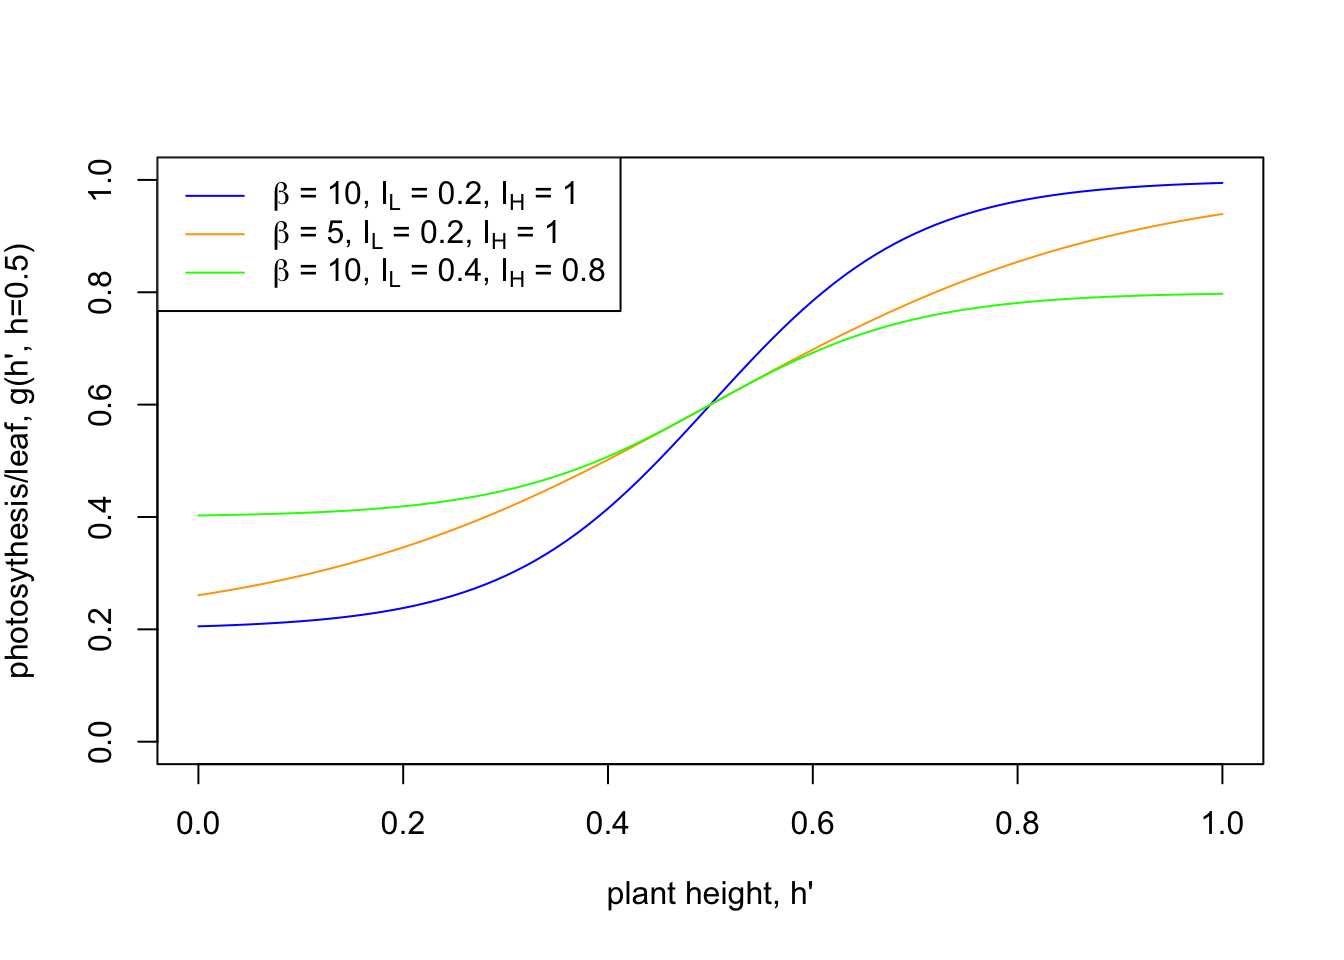
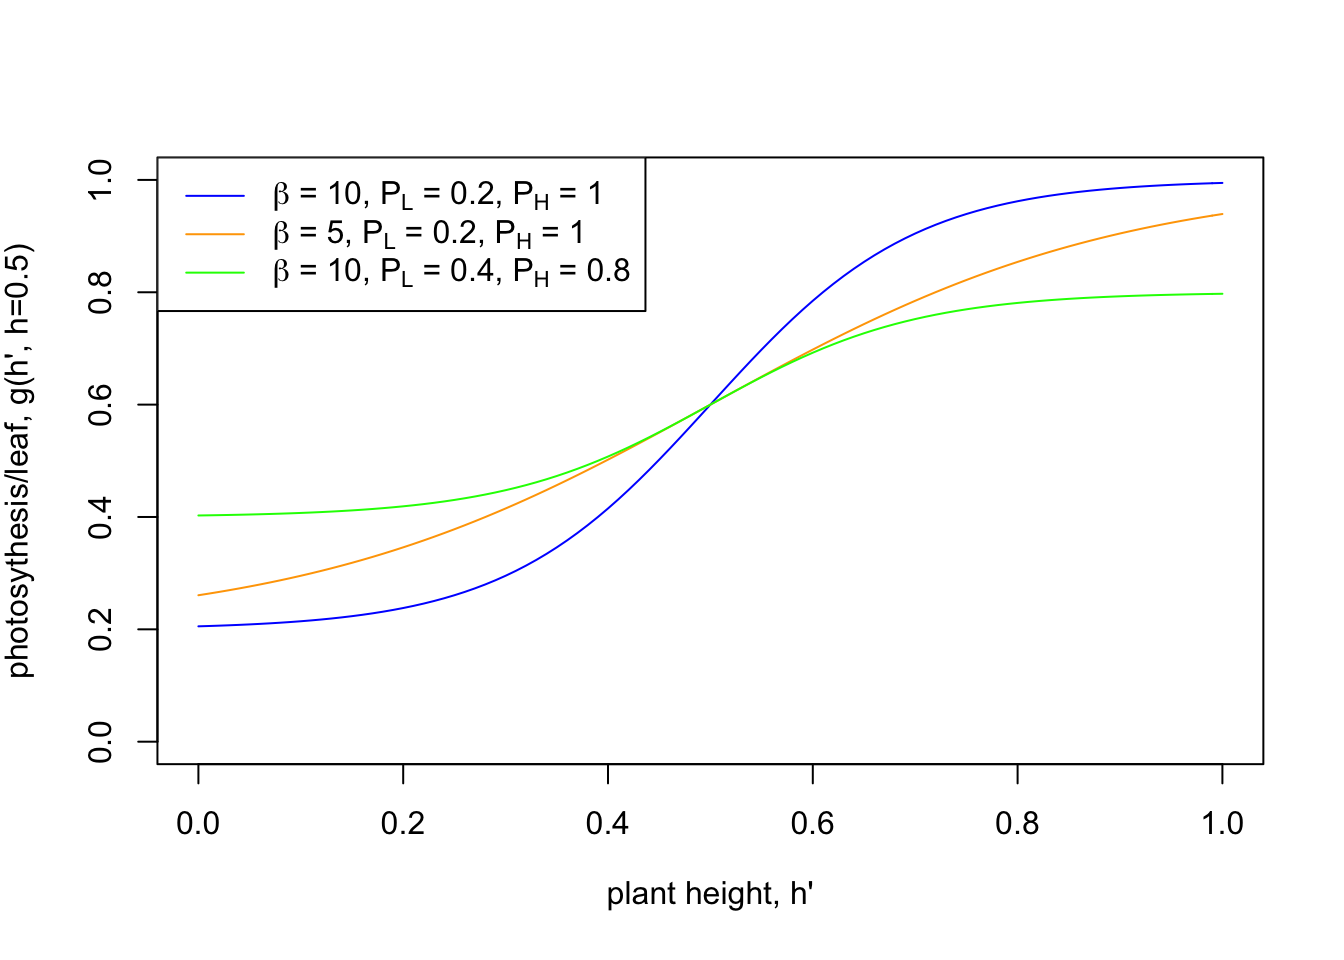
corrections

Changed region(s): [[0.2812, 0.1875, 0.4688, 0.3125]]

diff --git a/docs/GamesPlantsPlay.html b/docs/GamesPlantsPlay.html
@@ -415,9 +415,9 @@ g(h&#39;, h)=P_L+\frac{P_H-P_L}{1+\exp\left(-\beta(h&#39; - h)\right)}.
 <a class="sourceLine" id="cb3-20" data-line-number="20">beta &lt;-<span class="st"> </span><span class="dv">10</span></a>
 <a class="sourceLine" id="cb3-21" data-line-number="21"><span class="kw">curve</span>(<span class="kw">g</span>(x, <span class="dt">h.r =</span> <span class="fl">0.5</span>), <span class="dt">from =</span> <span class="dv">0</span>, <span class="dt">to =</span> <span class="dv">1</span>, <span class="dt">add =</span> <span class="ot">TRUE</span>, <span class="dt">col =</span> <span class="st">&quot;green&quot;</span>)</a>
 <a class="sourceLine" id="cb3-22" data-line-number="22"><span class="kw">legend</span>(<span class="st">&quot;topleft&quot;</span>, <span class="dt">lty =</span><span class="dv">1</span>, <span class="dt">col =</span> <span class="kw">c</span>(<span class="st">&quot;blue&quot;</span>, <span class="st">&quot;orange&quot;</span>, <span class="st">&quot;green&quot;</span>),</a>
-<a class="sourceLine" id="cb3-23" data-line-number="23">       <span class="dt">legend =</span> <span class="kw">c</span>(<span class="kw">expression</span>(<span class="kw">paste</span>(beta, <span class="st">&quot; = 10, &quot;</span>, I[L], <span class="st">&quot; = 0.2, &quot;</span>, I[H], <span class="st">&quot; = 1&quot;</span>)),</a>
-<a class="sourceLine" id="cb3-24" data-line-number="24">                  <span class="kw">expression</span>(<span class="kw">paste</span>(beta, <span class="st">&quot; = 5, &quot;</span>, I[L], <span class="st">&quot; = 0.2, &quot;</span>, I[H], <span class="st">&quot; = 1&quot;</span>)),</a>
-<a class="sourceLine" id="cb3-25" data-line-number="25">                  <span class="kw">expression</span>(<span class="kw">paste</span>(beta, <span class="st">&quot; = 10, &quot;</span>, I[L], <span class="st">&quot; = 0.4, &quot;</span>, I[H], <span class="st">&quot; = 0.8&quot;</span>))))</a></code></pre></div>
+<a class="sourceLine" id="cb3-23" data-line-number="23">       <span class="dt">legend =</span> <span class="kw">c</span>(<span class="kw">expression</span>(<span class="kw">paste</span>(beta, <span class="st">&quot; = 10, &quot;</span>, P[L], <span class="st">&quot; = 0.2, &quot;</span>, P[H], <span class="st">&quot; = 1&quot;</span>)),</a>
+<a class="sourceLine" id="cb3-24" data-line-number="24">                  <span class="kw">expression</span>(<span class="kw">paste</span>(beta, <span class="st">&quot; = 5, &quot;</span>, P[L], <span class="st">&quot; = 0.2, &quot;</span>, P[H], <span class="st">&quot; = 1&quot;</span>)),</a>
+<a class="sourceLine" id="cb3-25" data-line-number="25">                  <span class="kw">expression</span>(<span class="kw">paste</span>(beta, <span class="st">&quot; = 10, &quot;</span>, P[L], <span class="st">&quot; = 0.4, &quot;</span>, P[H], <span class="st">&quot; = 0.8&quot;</span>))))</a></code></pre></div>
 <p><img src="GamesPlantsPlay_files/figure-html/unnamed-chunk-2-1.png" width="672" /></p>
 <p>The shape of the function is S-shaped as a function of the height <span class="math inline">\(h&#39;\)</span> of the focal plant. As <span class="math inline">\(h&#39;\)</span> approaches 0, the value of <span class="math inline">\(g(h&#39;)\)</span> approaches the value of <span class="math inline">\(P_L\)</span>. Thus, <span class="math inline">\(P_L\)</span> can be interpreted as the amount of photosynthesis of a plant without stem that is maximally shaded by the other plant with height <span class="math inline">\(h = 0.5\)</span>. On the other end, as <span class="math inline">\(h&#39;\)</span> approaches 1, the value of <span class="math inline">\(g(h&#39;)\)</span> approaches the value of <span class="math inline">\(P_H\)</span>. Thus, <span class="math inline">\(P_H\)</span> can be interpreted as the amount of photosynthesis of a plant with a stem of maximum length that experience no shading from the other plant. If both plants are equally high, <span class="math inline">\(h&#39; = 0.5 = h\)</span>, then <span class="math inline">\(g(h)\)</span> is eaxtly halfway between <span class="math inline">\(P_L\)</span> and <span class="math inline">\(P_H\)</span>.</p>
 <p>Now we have everything in place to look at the payoff for a plant with height <span class="math inline">\(h&#39;\)</span> when competing against a plants with height <span class="math inline">\(h\)</span>, denoted <span class="math inline">\(w(h&#39;, h)\)</span>. The payoff for a plant with height <span class="math inline">\(h\)</span> competing against plants with height <span class="math inline">\(h&#39;\)</span> is denoted by reversing the order of the arguments in the payoff function <span class="math inline">\(w\)</span>.</p>
@@ -427,14 +427,10 @@ w(h&#39;, h) &amp; = f(h&#39;)g(h&#39;, h)\\
 w(h, h&#39;) &amp; = f(h)g(h, h&#39;)
 \end{align}
 \]</span></p>
-<p>Next we reproduce the payoff matrix shown in Table 6.1 in Kokko (2007). First, we define the functions for these payoffs.</p>
-<div class="sourceCode" id="cb4"><pre class="sourceCode r"><code class="sourceCode r"><a class="sourceLine" id="cb4-1" data-line-number="1">w.h.m.h.r &lt;-<span class="st"> </span><span class="cf">function</span>(h.m, h.r) { <span class="co"># payoff for h&#39;</span></a>
+<p>Next we reproduce the payoff matrix shown in Table 6.1 in Kokko (2007). First, we define the payoff function.</p>
+<div class="sourceCode" id="cb4"><pre class="sourceCode r"><code class="sourceCode r"><a class="sourceLine" id="cb4-1" data-line-number="1">w &lt;-<span class="st"> </span><span class="cf">function</span>(h.m, h.r) { <span class="co"># payoff for h&#39;</span></a>
 <a class="sourceLine" id="cb4-2" data-line-number="2">  <span class="kw">f</span>(h.m) <span class="op">*</span><span class="st"> </span><span class="kw">g</span>(h.m, h.r)</a>
-<a class="sourceLine" id="cb4-3" data-line-number="3">}</a>
-<a class="sourceLine" id="cb4-4" data-line-number="4"></a>
-<a class="sourceLine" id="cb4-5" data-line-number="5">w.h.r.h.m &lt;-<span class="st"> </span><span class="cf">function</span>(h.r, h.m) { <span class="co"># payoff for h</span></a>
-<a class="sourceLine" id="cb4-6" data-line-number="6">  <span class="kw">f</span>(h.r) <span class="op">*</span><span class="st"> </span><span class="kw">g</span>(h.r, h.m)</a>
-<a class="sourceLine" id="cb4-7" data-line-number="7">}</a></code></pre></div>
+<a class="sourceLine" id="cb4-3" data-line-number="3">}</a></code></pre></div>
 <p>Next, we compute the entries in the pay-off matrix using exactly the same parameter values as in Kokko (2007).</p>
 <div class="sourceCode" id="cb5"><pre class="sourceCode r"><code class="sourceCode r"><a class="sourceLine" id="cb5-1" data-line-number="1">alpha &lt;-<span class="st"> </span><span class="dv">3</span></a>
 <a class="sourceLine" id="cb5-2" data-line-number="2">beta &lt;-<span class="st"> </span><span class="dv">5</span></a>
@@ -442,26 +438,26 @@ w(h, h&#39;) &amp; = f(h)g(h, h&#39;)
 <a class="sourceLine" id="cb5-4" data-line-number="4">P.L &lt;-<span class="st"> </span><span class="fl">0.25</span></a>
 <a class="sourceLine" id="cb5-5" data-line-number="5">P.H &lt;-<span class="st"> </span><span class="dv">1</span></a></code></pre></div>
 <p>Payoff to a plant with height <span class="math inline">\(h&#39;\)</span> (first number in the matrix in Kokko).</p>
-<div class="sourceCode" id="cb6"><pre class="sourceCode r"><code class="sourceCode r"><a class="sourceLine" id="cb6-1" data-line-number="1"><span class="kw">round</span>(<span class="kw">outer</span>(<span class="kw">c</span>(<span class="dv">0</span>,<span class="dv">1</span><span class="op">/</span><span class="dv">3</span>,<span class="dv">2</span><span class="op">/</span><span class="dv">3</span>,<span class="dv">1</span>), <span class="kw">c</span>(<span class="dv">0</span>,<span class="dv">1</span><span class="op">/</span><span class="dv">3</span>,<span class="dv">2</span><span class="op">/</span><span class="dv">3</span>,<span class="dv">1</span>), w.h.m.h.r), <span class="dt">digits =</span> <span class="dv">3</span>)</a></code></pre></div>
+<div class="sourceCode" id="cb6"><pre class="sourceCode r"><code class="sourceCode r"><a class="sourceLine" id="cb6-1" data-line-number="1"><span class="kw">round</span>(<span class="kw">outer</span>(<span class="kw">c</span>(<span class="dv">0</span>,<span class="dv">1</span><span class="op">/</span><span class="dv">3</span>,<span class="dv">2</span><span class="op">/</span><span class="dv">3</span>,<span class="dv">1</span>), <span class="kw">c</span>(<span class="dv">0</span>,<span class="dv">1</span><span class="op">/</span><span class="dv">3</span>,<span class="dv">2</span><span class="op">/</span><span class="dv">3</span>,<span class="dv">1</span>), w), <span class="dt">digits =</span> <span class="dv">3</span>)</a></code></pre></div>
 <pre><code>##       [,1]  [,2]  [,3]  [,4]
 ## [1,] 0.625 0.369 0.276 0.255
 ## [2,] 0.848 0.602 0.355 0.266
 ## [3,] 0.686 0.620 0.440 0.260
 ## [4,] 0.000 0.000 0.000 0.000</code></pre>
-<p>Payoff to plant with height <span class="math inline">\(h\)</span> (second number in the matrix in Kokko).</p>
-<div class="sourceCode" id="cb8"><pre class="sourceCode r"><code class="sourceCode r"><a class="sourceLine" id="cb8-1" data-line-number="1"><span class="kw">round</span>(<span class="kw">outer</span>(<span class="kw">c</span>(<span class="dv">0</span>,<span class="dv">1</span><span class="op">/</span><span class="dv">3</span>,<span class="dv">2</span><span class="op">/</span><span class="dv">3</span>,<span class="dv">1</span>), <span class="kw">c</span>(<span class="dv">0</span>,<span class="dv">1</span><span class="op">/</span><span class="dv">3</span>,<span class="dv">2</span><span class="op">/</span><span class="dv">3</span>,<span class="dv">1</span>), w.h.r.h.m), <span class="dt">digits =</span> <span class="dv">3</span>)</a></code></pre></div>
-<pre><code>##       [,1]  [,2]  [,3]  [,4]
-## [1,] 0.625 0.369 0.276 0.255
-## [2,] 0.848 0.602 0.355 0.266
-## [3,] 0.686 0.620 0.440 0.260
-## [4,] 0.000 0.000 0.000 0.000</code></pre>
+<p>To obtain the second entry in each cell in the matrix by Kokko (which is the the payoff if the roles of who is mutant and how resident are switched) we only have to transpose the previous payoff matrix:</p>
+<div class="sourceCode" id="cb8"><pre class="sourceCode r"><code class="sourceCode r"><a class="sourceLine" id="cb8-1" data-line-number="1"><span class="kw">t</span>(<span class="kw">round</span>(<span class="kw">outer</span>(<span class="kw">c</span>(<span class="dv">0</span>,<span class="dv">1</span><span class="op">/</span><span class="dv">3</span>,<span class="dv">2</span><span class="op">/</span><span class="dv">3</span>,<span class="dv">1</span>), <span class="kw">c</span>(<span class="dv">0</span>,<span class="dv">1</span><span class="op">/</span><span class="dv">3</span>,<span class="dv">2</span><span class="op">/</span><span class="dv">3</span>,<span class="dv">1</span>), w), <span class="dt">digits =</span> <span class="dv">3</span>))</a></code></pre></div>
+<pre><code>##       [,1]  [,2]  [,3] [,4]
+## [1,] 0.625 0.848 0.686    0
+## [2,] 0.369 0.602 0.620    0
+## [3,] 0.276 0.355 0.440    0
+## [4,] 0.255 0.266 0.260    0</code></pre>
 <p>The next step by Hanna Kokko is to ask about the <em>best response</em> of one plant to a given strategy by the other plant, that is, the height that maximizes the payoff given a certain height of the competing plant. Let us do this by allowing any height, not just a height from a set of four. Thus, we are going to reproduce figure 6.4(b) in Kokko (2007).</p>
 <p>First, let us plot the payoff for all possible choices of <span class="math inline">\(h&#39;\)</span> given that <span class="math inline">\(h = 0.5\)</span>. The strategy that corresponds to the maximum of this curve is the optimal response <span class="math inline">\(h&#39;\)</span> given <span class="math inline">\(h\)</span>.</p>
-<div class="sourceCode" id="cb10"><pre class="sourceCode r"><code class="sourceCode r"><a class="sourceLine" id="cb10-1" data-line-number="1"><span class="kw">curve</span>(<span class="kw">w.h.m.h.r</span>(x, h.r), <span class="dt">from =</span> <span class="dv">0</span>, <span class="dt">to =</span> <span class="dv">1</span>, <span class="dt">xlab =</span> <span class="kw">expression</span>(<span class="st">&quot;height h&#39;&quot;</span>), <span class="dt">ylab =</span> <span class="kw">expression</span>(<span class="st">&quot;payoff w(h&#39;, h = 0.5)&quot;</span>))</a></code></pre></div>
+<div class="sourceCode" id="cb10"><pre class="sourceCode r"><code class="sourceCode r"><a class="sourceLine" id="cb10-1" data-line-number="1"><span class="kw">curve</span>(<span class="kw">w</span>(x, h.r), <span class="dt">from =</span> <span class="dv">0</span>, <span class="dt">to =</span> <span class="dv">1</span>, <span class="dt">xlab =</span> <span class="kw">expression</span>(<span class="st">&quot;height h&#39;&quot;</span>), <span class="dt">ylab =</span> <span class="kw">expression</span>(<span class="st">&quot;payoff w(h&#39;, h = 0.5)&quot;</span>))</a></code></pre></div>
 <p><img src="GamesPlantsPlay_files/figure-html/unnamed-chunk-7-1.png" width="672" /></p>
 <p>In the next step we find the value of <span class="math inline">\(h&#39;\)</span> that results in the highest possible pay-off <span class="math inline">\(w(h&#39;, h)\)</span>.</p>
 <div class="sourceCode" id="cb11"><pre class="sourceCode r"><code class="sourceCode r"><a class="sourceLine" id="cb11-1" data-line-number="1">best.response &lt;-<span class="st"> </span><span class="cf">function</span>(h.r) {</a>
-<a class="sourceLine" id="cb11-2" data-line-number="2">  <span class="kw">optimize</span>(w.h.m.h.r, <span class="dt">interval=</span><span class="kw">c</span>(<span class="dv">0</span>, <span class="dv">1</span>), <span class="dt">maximum =</span> <span class="ot">TRUE</span>, h.r)<span class="op">$</span>maximum</a>
+<a class="sourceLine" id="cb11-2" data-line-number="2">  <span class="kw">optimize</span>(w, <span class="dt">interval=</span><span class="kw">c</span>(<span class="dv">0</span>, <span class="dv">1</span>), <span class="dt">maximum =</span> <span class="ot">TRUE</span>, h.r)<span class="op">$</span>maximum</a>
 <a class="sourceLine" id="cb11-3" data-line-number="3">}</a>
 <a class="sourceLine" id="cb11-4" data-line-number="4"></a>
 <a class="sourceLine" id="cb11-5" data-line-number="5"><span class="kw">best.response</span>(<span class="dt">h.r =</span> <span class="fl">0.5</span>)</a></code></pre></div>

diff --git a/docs/Evolution2.html b/docs/Evolution2.html
@@ -365,7 +365,7 @@ $(document).ready(function () {
 <!-- # Exercise: Games Plants Play {.tabset} -->
 <div id="evolution-in-the-modified-model" class="section level2">
 <h2>Evolution in the modified model</h2>
-<p>Let us modify one assumption in our model. Above we assumed that the minimum and maximum amount of photosyntesis, <span class="math inline">\(P_L\)</span> and <span class="math inline">\(P_H\)</span>, are fixed parameters. Hanna Kokko suggests that the values of <span class="math inline">\(P_L\)</span> and <span class="math inline">\(P_H\)</span> are determined by leaf structure. Indeed, some plant species have rather thick, leathery leaves that are protected by a very thick cuticula while other plants have rather thin leaves that are hardly protected by a cuticula. This plant trait is generally related to the amount of sun light a plant is exposed to. Leave thickness is an adaptation against water loss and plants exposed to more intense sun light have thicker leaves, which decreases their photosytetic efficiency. It therefore seems reasonable to assume that plants that are shaded by other plants have thiner leaves that can photosythesize more efficiently and therefore have a higher value for <span class="math inline">\(P_L\)</span>. Let us implement this idea by making <span class="math inline">\(P_L\)</span> a function of the degree of shading from a competing plant. More specifically, we will assume that <span class="math inline">\(P_L\)</span> of a plant with strategy <span class="math inline">\(h&#39;\)</span> increases with increasing height difference <span class="math inline">\(h-h&#39;\)</span>. A function for <em>P_L(h’, h)</em> that depends on <em>h’-h</em> and has the desired porperties is the following one:</p>
+<p>Let us modify one assumption in our model. Above we assumed that the minimum and maximum amount of photosyntesis, <span class="math inline">\(P_L\)</span> and <span class="math inline">\(P_H\)</span>, are fixed parameters. Hanna Kokko suggests that the values of <span class="math inline">\(P_L\)</span> and <span class="math inline">\(P_H\)</span> are determined by leaf structure. Indeed, some plant species have rather thick, leathery leaves that are protected by a very thick cuticula while other plants have rather thin leaves that are hardly protected by a cuticula. This plant trait is generally related to the amount of sun light a plant is exposed to. Leave thickness is an adaptation against water loss and plants exposed to more intense sun light have thicker leaves, which decreases their photosytetic efficiency. It therefore seems reasonable to assume that plants that are shaded by other plants have thiner leaves that can photosythesize more efficiently and therefore have a higher value for <span class="math inline">\(P_L\)</span>. Let us implement this idea by making <span class="math inline">\(P_L\)</span> a function of the degree of shading from a competing plant. More specifically, we will assume that <span class="math inline">\(P_L\)</span> of a plant with strategy <span class="math inline">\(h&#39;\)</span> increases with increasing height difference <span class="math inline">\(h-h&#39;\)</span>. A function for <span class="math inline">\(P_L(h&#39;, h)\)</span> that depends on <em>h’-h</em> and has the desired porperties is the following one:</p>
 <div class="sourceCode" id="cb1"><pre class="sourceCode r"><code class="sourceCode r"><a class="sourceLine" id="cb1-1" data-line-number="1">P.L.flex &lt;-<span class="st"> </span><span class="cf">function</span>(h.m, h.r) {</a>
 <a class="sourceLine" id="cb1-2" data-line-number="2">  P.L.mean <span class="op">+</span><span class="st"> </span>P.L.var<span class="op">*</span>(<span class="dv">1</span> <span class="op">/</span><span class="st"> </span>(<span class="dv">1</span> <span class="op">+</span><span class="st"> </span><span class="kw">exp</span>(gamma<span class="op">*</span>(h.m <span class="op">-</span><span class="st"> </span>h.r))) <span class="op">-</span><span class="st"> </span><span class="fl">0.5</span>)</a>
 <a class="sourceLine" id="cb1-3" data-line-number="3">}</a>
@@ -383,7 +383,7 @@ $(document).ready(function () {
 <a class="sourceLine" id="cb1-15" data-line-number="15"></a>
 <a class="sourceLine" id="cb1-16" data-line-number="16"><span class="kw">curve</span>(<span class="kw">P.L.flex</span>(x, <span class="dt">h.r =</span> <span class="fl">0.5</span>), <span class="dt">from =</span> <span class="dv">0</span>, <span class="dt">to =</span> <span class="dv">1</span>, <span class="dt">xlab =</span> <span class="kw">expression</span>(<span class="st">&quot;height &quot;</span><span class="op">*</span><span class="st"> </span>h[<span class="dv">1</span>]), <span class="dt">ylab =</span> <span class="kw">expression</span>(<span class="st">&quot;minimum photosynthesis, &quot;</span> <span class="op">*</span><span class="st"> </span>P[L](h[<span class="dv">1</span>], h[<span class="dv">2</span>] <span class="op">*</span><span class="st"> &quot;=0.5&quot;</span>)))</a></code></pre></div>
 <p><img src="Evolution2_files/figure-html/unnamed-chunk-1-1.png" width="672" /></p>
-<p>Now we can plot how the fact that <span class="math inline">\(P.L\)</span> depends on the plant heights <span class="math inline">\(h&#39;\)</span> and <span class="math inline">\(h\)</span> affects the shape of the function <span class="math inline">\(g(h_1, h_2)\)</span>.</p>
+<p>Now we can plot how the fact that <span class="math inline">\(P.L\)</span> depends on the plant heights <span class="math inline">\(h&#39;\)</span> and <span class="math inline">\(h\)</span> affects the shape of the function <span class="math inline">\(g(h&#39;, h)\)</span>.</p>
 <div class="sourceCode" id="cb2"><pre class="sourceCode r"><code class="sourceCode r"><a class="sourceLine" id="cb2-1" data-line-number="1">g<span class="fl">.2</span> &lt;-<span class="st"> </span><span class="cf">function</span>(h.m, h.r) { <span class="co"># this a new function for g(h&#39;, h) that incorporates our function for P.L</span></a>
 <a class="sourceLine" id="cb2-2" data-line-number="2">  <span class="kw">P.L.flex</span>(h.m, h.r) <span class="op">+</span><span class="st"> </span>(P.H <span class="op">-</span><span class="st"> </span><span class="kw">P.L.flex</span>(h.m, h.r))<span class="op">/</span>(<span class="dv">1</span> <span class="op">+</span><span class="st"> </span><span class="kw">exp</span>(<span class="op">-</span>beta<span class="op">*</span>(h.m <span class="op">-</span><span class="st"> </span>h.r)))</a>
 <a class="sourceLine" id="cb2-3" data-line-number="3">}</a>
@@ -400,8 +400,8 @@ $(document).ready(function () {
 <a class="sourceLine" id="cb2-14" data-line-number="14"></a>
 <a class="sourceLine" id="cb2-15" data-line-number="15"><span class="kw">curve</span>(<span class="kw">g.2</span>(x, <span class="dt">h.r =</span> <span class="fl">0.5</span>), <span class="dt">from =</span> <span class="dv">0</span>, <span class="dt">to =</span> <span class="dv">1</span>, <span class="dt">xlab =</span> <span class="kw">expression</span>(<span class="st">&quot;plant height, h&#39;&quot;</span>), <span class="dt">ylim =</span> <span class="kw">c</span>(<span class="dv">0</span>,<span class="dv">1</span>), <span class="dt">ylab =</span> <span class="kw">expression</span>(<span class="st">&quot;photosythesis/leaf, g(h&#39;, h = 0.5)&quot;</span>), <span class="dt">col =</span> <span class="st">&quot;blue&quot;</span>)</a>
 <a class="sourceLine" id="cb2-16" data-line-number="16"><span class="kw">curve</span>(<span class="kw">g</span>(x, <span class="dt">h.r =</span> <span class="fl">0.5</span>), <span class="dt">from =</span> <span class="dv">0</span>, <span class="dt">to =</span> <span class="dv">1</span>, <span class="dt">col =</span> <span class="st">&quot;orange&quot;</span>, <span class="dt">add =</span> <span class="ot">TRUE</span>)</a>
-<a class="sourceLine" id="cb2-17" data-line-number="17"><span class="kw">legend</span>(<span class="st">&quot;topleft&quot;</span>, <span class="dt">legend =</span> <span class="kw">c</span>(<span class="kw">expression</span>(P[L] <span class="op">*</span><span class="st"> &quot; fixed &quot;</span>),</a>
-<a class="sourceLine" id="cb2-18" data-line-number="18">                              <span class="kw">expression</span>(P[L] <span class="op">*</span><span class="st"> &quot; variable &quot;</span>)), <span class="dt">lty =</span><span class="dv">1</span>, <span class="dt">col =</span> <span class="kw">c</span>(<span class="st">&quot;blue&quot;</span>, <span class="st">&quot;orange&quot;</span>))</a></code></pre></div>
+<a class="sourceLine" id="cb2-17" data-line-number="17"><span class="kw">legend</span>(<span class="st">&quot;topleft&quot;</span>, <span class="dt">legend =</span> <span class="kw">c</span>(<span class="kw">expression</span>(P[L] <span class="op">*</span><span class="st"> &quot; variable &quot;</span>),</a>
+<a class="sourceLine" id="cb2-18" data-line-number="18">                              <span class="kw">expression</span>(P[L] <span class="op">*</span><span class="st"> &quot; fixed &quot;</span>)), <span class="dt">lty =</span><span class="dv">1</span>, <span class="dt">col =</span> <span class="kw">c</span>(<span class="st">&quot;blue&quot;</span>, <span class="st">&quot;orange&quot;</span>))</a></code></pre></div>
 <p><img src="Evolution2_files/figure-html/unnamed-chunk-2-1.png" width="672" /></p>
 <p>We are interested in how our new assumption affect the PIP and whether we find heights <em>h’</em> and <em>h</em> that are able to coexist with each other. To this end, we repeat the same steps as on the previous side. First, we produce the PIP.</p>
 <div class="sourceCode" id="cb3"><pre class="sourceCode r"><code class="sourceCode r"><a class="sourceLine" id="cb3-1" data-line-number="1">f &lt;-<span class="st"> </span><span class="cf">function</span>(h) { <span class="co"># same function f(h) as before</span></a>
